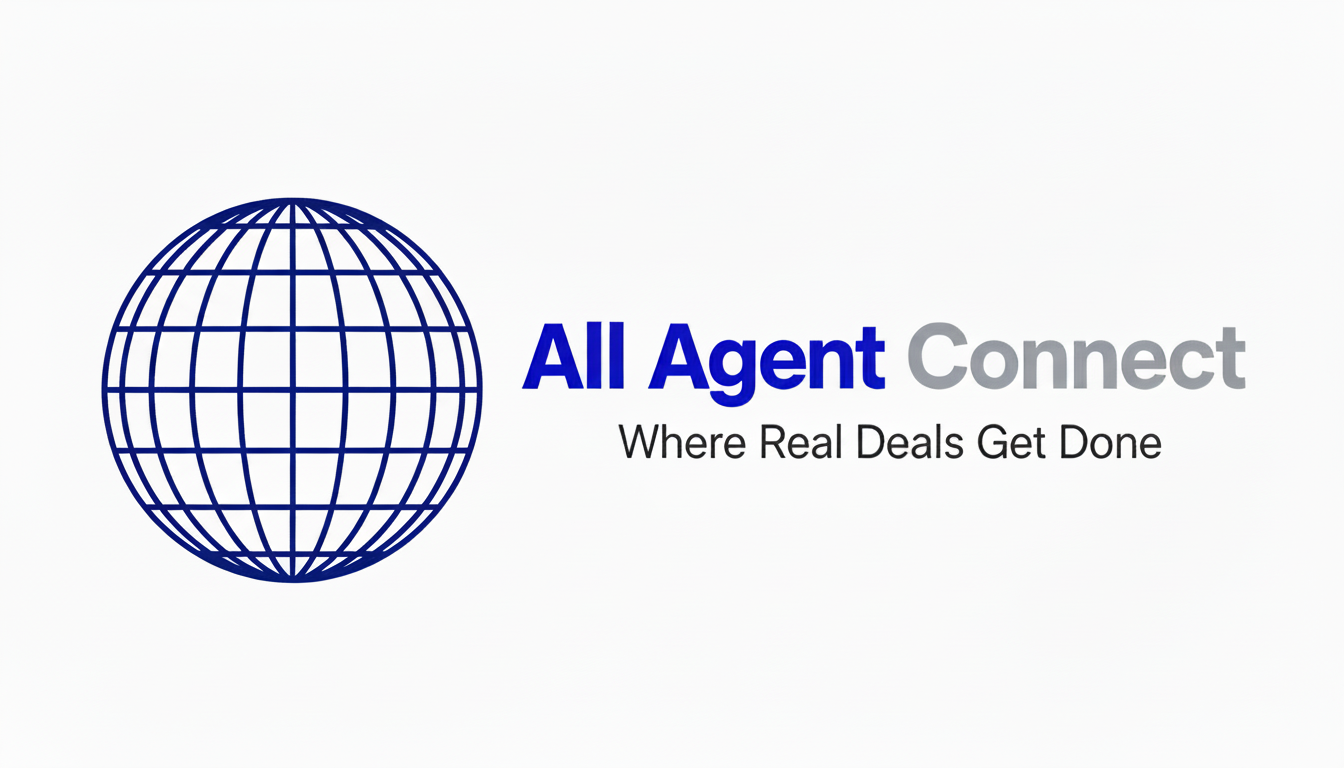
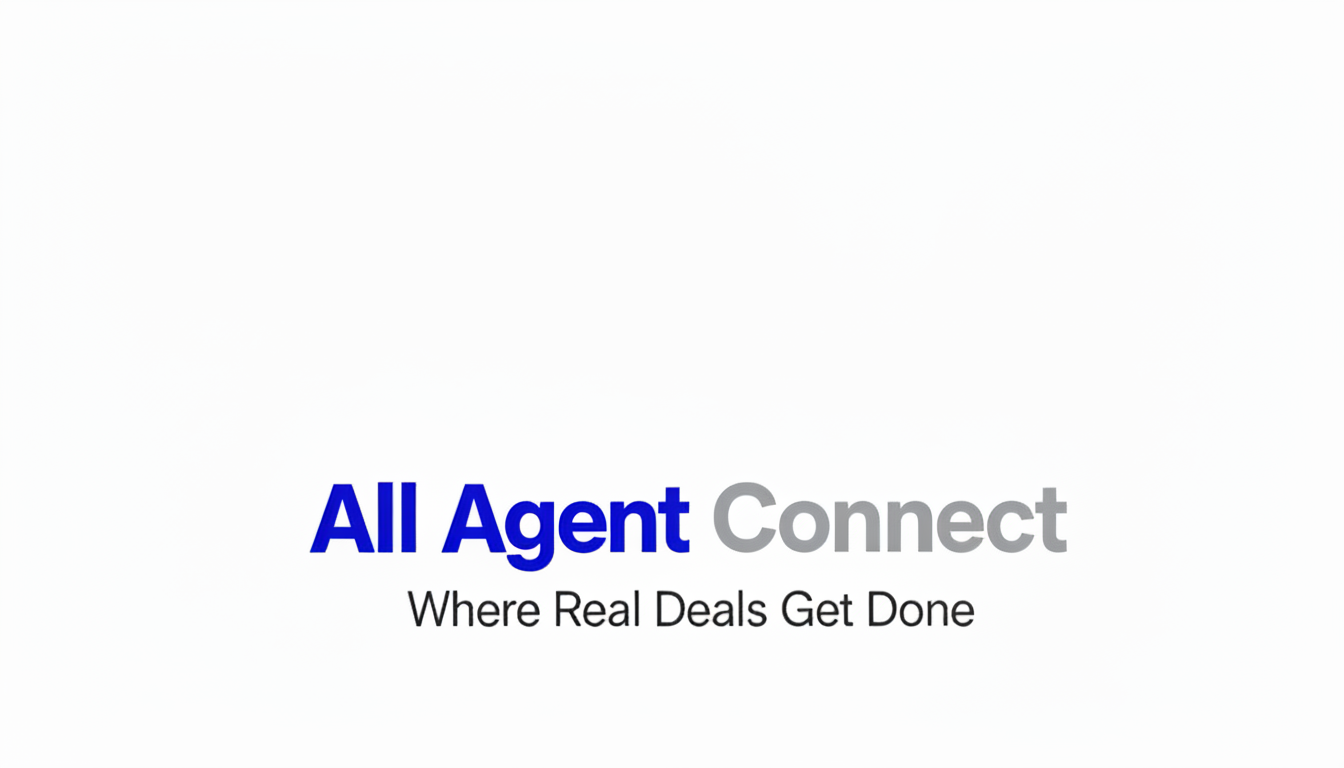
Reverted to commit 15dbce09deeb8be1980b597a0b0919e9ccfcb7a1

Changed region(s): [[0.0625, 0.25, 0.9375, 0.8125]]

diff --git a/src/pages/LandingPage.tsx b/src/pages/LandingPage.tsx
@@ -2,7 +2,8 @@ import { ArrowRight, Share2, Users, Megaphone, MessageCircle } from "lucide-reac
 import { useNavigate } from "react-router-dom";
 import { Button } from "@/components/ui/button";
 import { Logo } from "@/components/brand";
-import AmbientNetworkField from "@/components/allagent/AmbientNetworkField";
+import NetworkGlobe from "@/components/home/NetworkGlobe";
+
 function ModuleCard({
   icon: Icon,
   title,
@@ -54,10 +55,10 @@ const LandingPage = () => {
       <main className="pb-12">
         {/* Hero */}
         <section className="relative flex items-center overflow-visible">
-          {/* Background network field layer */}
+          {/* Background globe layer */}
           <div className="pointer-events-none absolute inset-0 overflow-visible">
-            <div className="absolute right-0 top-0 lg:right-8 xl:right-16">
-              <AmbientNetworkField className="w-[500px] h-[400px] lg:w-[600px] lg:h-[450px] opacity-40" />
+            <div className="absolute right-[-60px] top-[-92px] md:top-[-110px] lg:top-[-128px] lg:right-[-40px] xl:right-[-20px] 2xl:right-0">
+              <NetworkGlobe />
             </div>
           </div>
           

diff --git a/src/components/home/NetworkGlobe.tsx b/src/components/home/NetworkGlobe.tsx
@@ -249,7 +249,7 @@ const NetworkGlobe = ({ variant = 'hero', strokeColor, fillTriangles = false }: 
   // Hero mode - fixed-size, subtle architectural background
   return (
     <div 
-      className="block w-[640px] h-[640px] lg:w-[760px] lg:h-[760px] xl:w-[820px] xl:h-[820px] 2xl:w-[860px] 2xl:h-[860px] overflow-visible pointer-events-none relative"
+      className="hidden md:block w-[640px] h-[640px] lg:w-[760px] lg:h-[760px] xl:w-[820px] xl:h-[820px] 2xl:w-[860px] 2xl:h-[860px] overflow-visible pointer-events-none relative"
       aria-hidden="true"
     >
       {/* Globe container - neutral architectural watermark, no blue tinting */}
